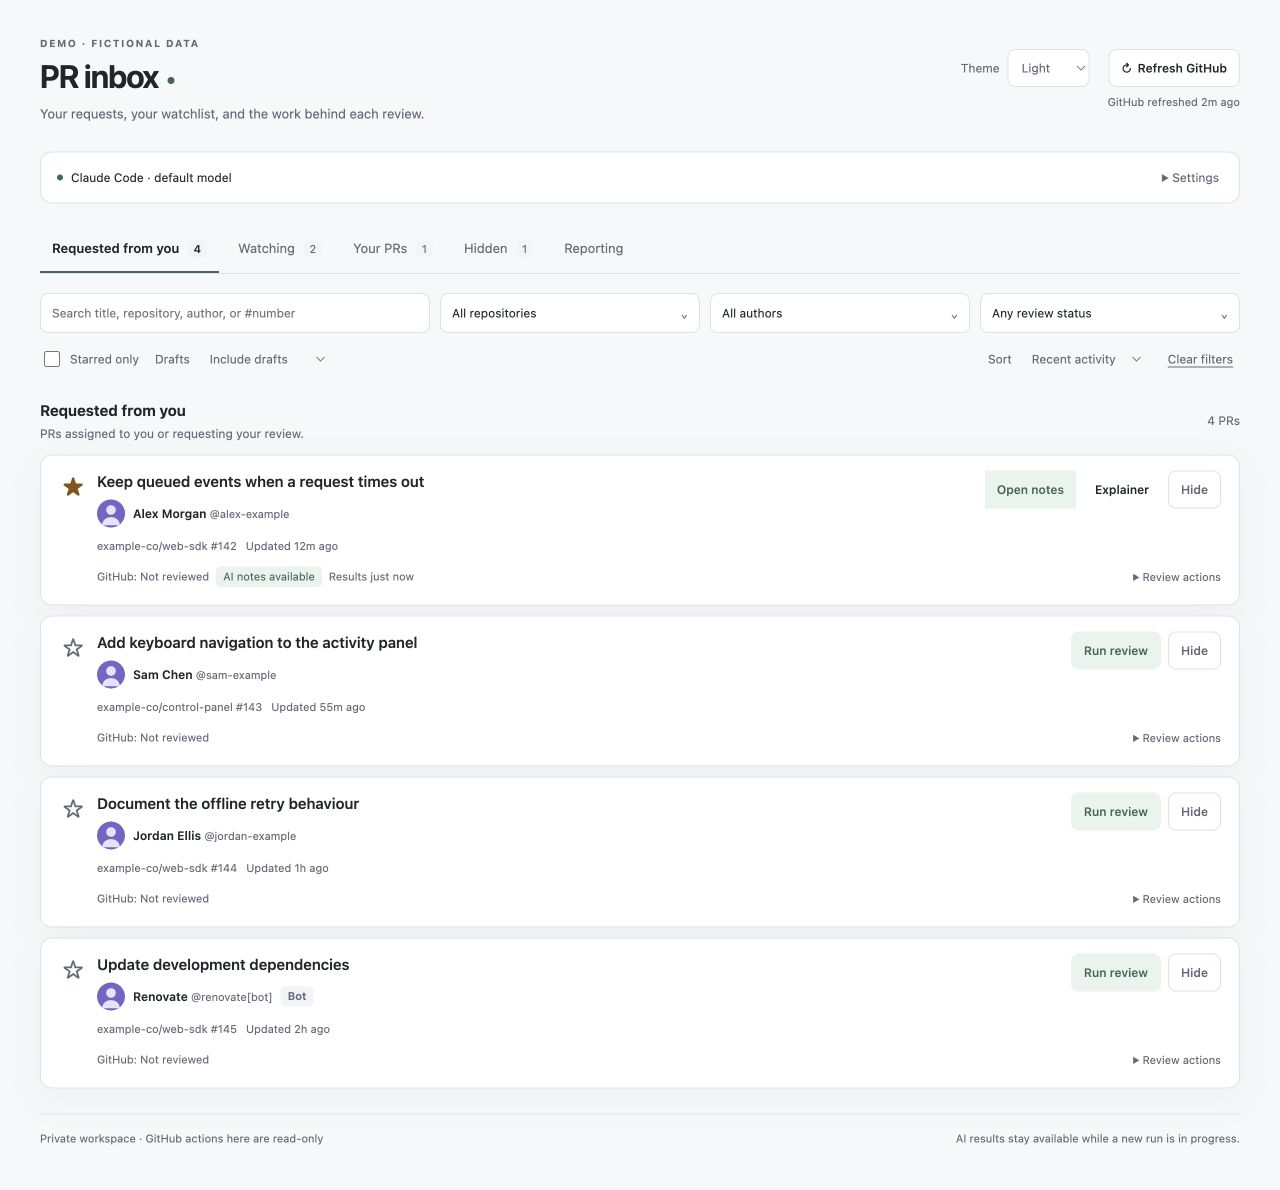
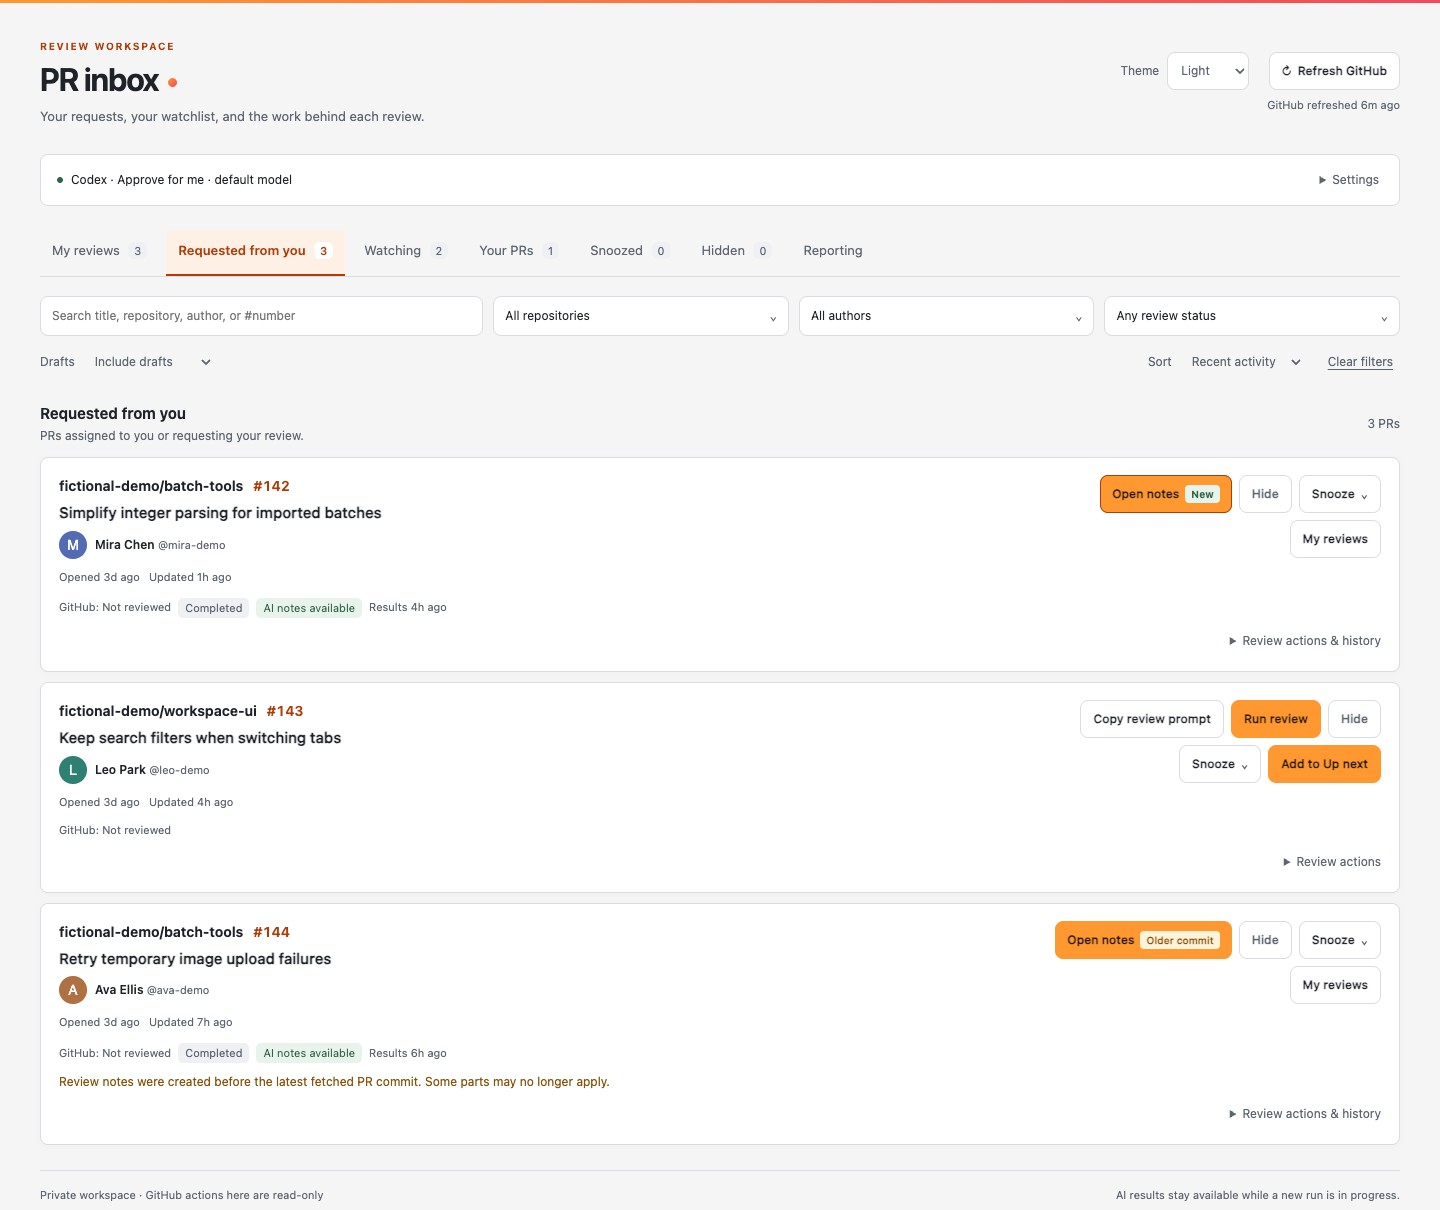
Refresh workflow documentation and synthetic screenshots

diff --git a/assets/dashboard.html b/assets/dashboard.html
@@ -26,7 +26,7 @@
   <details id="settings"><summary>Settings</summary>
     <div class="settings-content">
       <form id="agent-form">
-        <h2>Review agent</h2><p class="muted">Used when you start a review or explanation. Model and effort are remembered for each agent.</p>
+        <h2>Review agent</h2><p class="muted">Used when you start a review. Model and effort are remembered for each agent.</p>
         <div class="fields"><label>Agent<select id="agent" name="agent"><option value="claude">Claude Code</option><option value="codex">Codex CLI</option></select></label>
         <label>Model<input id="model" name="model" list="model-options" placeholder="CLI default" autocomplete="off"><datalist id="model-options"></datalist></label>
         <label>Effort<input id="effort" name="effort" list="effort-options" placeholder="CLI default" autocomplete="off"><datalist id="effort-options"></datalist></label></div>

diff --git a/README.md b/README.md
@@ -11,10 +11,25 @@ service to set up.
 ## A look around
 
 **Your review inbox, in light mode.** See authors, filter your queue, and open
-one combined review report from the PR card. The screenshot below predates
-the combined-report controls.
+one combined review report from the PR card. Snooze a PR or save it to My reviews.
 
 ![PR inbox in light mode with fictional pull requests and authors](docs/screenshots/inbox-light.jpg)
+
+**One report, starting with the explanation.** Follow a concrete before/after
+example and see the exact code behind the behavior.
+
+![Combined review report opening with a fictional parser change and before-and-after example](docs/screenshots/review-overview-light.jpg)
+
+**Findings you can explore one at a time.** Severity and titles stay visible.
+Open a finding for an example, the cause and consequence, a fix direction, a
+copyable comment, and its evidence. Expand all when you want the full review.
+
+![Two fictional findings, with one expanded to show an example, impact, fix direction and copyable comment](docs/screenshots/review-findings-light.jpg)
+
+**My reviews.** Keep a personal queue and pick up where you stopped. New commits
+and replies move saved PRs into Needs another look.
+
+![My reviews with fictional PRs, update indicators and a private reminder](docs/screenshots/my-reviews-light.jpg)
 
 **Reporting, in dark mode.** Compare completed weeks and select a day or week
 to see which PRs you reviewed and which of your own PRs were merged.
@@ -22,18 +37,27 @@ to see which PRs you reviewed and which of your own PRs were merged.
 ![Reporting in dark mode with fictional review and merge activity](docs/screenshots/reporting-dark.jpg)
 
 All screenshots use fictional PRs, people, repositories, and activity, with
-synthetic avatars. They were captured from an isolated demo of the dashboard.
+synthetic avatars. They were captured from the current dashboard and report
+renderer on September 15, 2026, using an isolated demo with mocked data.
+See [screenshot provenance](docs/screenshots/README.md).
 
 ## What it does
 
 - **Triage:** separate views for review requests, watched repositories, your
-  own PRs, and hidden PRs. Star a PR or hide it with an undo option.
+  own PRs, snoozed PRs, and hidden PRs. Snooze for one day, two days, or a
+  week; hide a PR with an undo option.
+- **Follow up:** save PRs in My reviews, keep private notes, and see new commits
+  and replies that need another look.
 - **Filter:** include or exclude multiple authors, repositories, and review
   statuses. There is a shortcut to exclude Renovate. Preferences are remembered
   in your browser.
 - **Review:** launch Claude Code or Codex CLI from the dashboard. Keep the
   combined HTML review notes and run history attached to the PR.
   Existing results remain available during a rerun; outdated results are marked.
+- **Understand and check:** one HTML contains the change explanation and
+  expandable, verified findings with examples and draft comments. The lead
+  assesses size, complexity, risk, and uncertainty before allocating reviewers;
+  the verification appendix records coverage, checks, limitations, and model choices.
 - **Report:** daily and weekly GitHub activity, completed-week comparisons,
   and a short list of yesterday's work. A PR counts once per day or week.
   AI runs, draft reviews, and ordinary PR comments do not count as submitted
@@ -57,18 +81,21 @@ The inbox and reporting can be used without running an AI agent.
 
 ### Full-review dependencies
 
-The explanation renderer is bundled. Draft comments also use this separate skill:
+The combined report renderer is bundled; no separate PR-explainer skill is
+needed. Draft comments use this additional skill:
 
 | Skill | Purpose |
 | --- | --- |
 | `my-feedback-voice` | Shape the draft review comments using your writing examples. |
 
-Install compatible versions in your agent's skill search path before running
-a full review. The default locations referenced here are
-`~/.agents/skills/my-feedback-voice/`.
+Install it in your agent's skill search path before running a full review.
+The default location referenced here is `~/.agents/skills/my-feedback-voice/`.
 The current voice instructions are written for Robert; adapt them for yourself.
 Read [SKILL.md](SKILL.md) for the complete review and sandboxed verification
 workflow. An agent needs a suitable disposable sandbox to execute PR code.
+Full report validation also needs Node.js, Playwright, and an available
+Chromium or Chrome browser. See [renderer and browser-check setup](references/authoring.md)
+for the commands and runtime-path overrides.
 
 ## Get started
 
@@ -82,17 +109,20 @@ gh auth login
 python3 scripts/pr_server.py
 ```
 
-The repository is currently private, so cloning requires repository access
-and GitHub SSH authentication. If you already have this checkout, use it
-instead of cloning over it.
+Cloning requires repository access and GitHub SSH authentication. If you
+already have this checkout, use it instead of cloning over it.
 
-Open **http://127.0.0.1:8765/** and click **Refresh GitHub**. Leave the server
-running in that terminal; Ctrl-C stops it. If the port is occupied, start with
+Open [the local dashboard](http://127.0.0.1:8765/) and click **Refresh GitHub**.
+Leave the server running in that terminal; Ctrl-C stops it. If the port is occupied, start with
 `python3 scripts/pr_server.py --port 8766` and open that port instead.
 
 In **Settings**, add watched repositories as `owner/repository`, then refresh
 GitHub. Choose the agent used for reviews; blank model and effort fields use
 its CLI defaults. Model and effort are saved separately for each agent.
+These settings select the lead session. The lead chooses reviewer subagent
+models and reasoning levels from the host's supported options, within your
+explicit constraints. If overrides are unavailable, reviewers inherit the
+session settings and the report records that limitation.
 
 ### Run a review
 
@@ -109,12 +139,41 @@ From the dashboard, click **Run review**, or expand **Review actions** to
 regenerate the combined review report. This opens an interactive
 CLI session in Terminal and passes it the skill prompt. It is not a headless
 background review service. The CLI's authentication and approval settings
-still apply.
+still apply. Use **Copy review prompt** to paste the same review instructions
+into an agent session of your choice without launching Terminal.
 
 The agent records progress and artifacts in the local tracker. When finished,
-click **Open notes** on the card. The one HTML starts with the change explanation,
-then contains the assessment, findings, copyable drafts and verification. Review comments are drafts;
-read and edit them before posting them yourself.
+click **Open notes** on the card. There is one report and one review skill:
+
+1. **Understand the change:** purpose, essential context, a concrete before/after
+   example, and exact source excerpts.
+2. **Read the assessment and findings:** each finding starts collapsed with its
+   severity and title visible. Open it for expected versus actual behavior, why
+   it happens, why it matters, the proposed fix, evidence, and a copyable comment.
+   Multiple findings have **Expand all / Collapse all** controls.
+3. **Check the verification appendix:** inspected scope, checks and outcomes,
+   unresolved gaps, and reviewer allocation with requested versus known effective
+   model and effort settings.
+
+The workflow covers the full diff with correctness, security, and contract
+review lenses, then verifies candidates before reporting them. Model selection
+is an adaptive policy, not a guarantee of review quality. See the
+[review approach](references/review-practices.md) and
+[allocation policy](references/reviewer-allocation.md).
+Review comments are drafts; read and edit them before posting them yourself.
+
+### Keep track of your reviews
+
+Click **Add to Up next** on a PR or paste its link into **My reviews**. Move it
+through **Up next**, **Reviewing**, and **Waiting**, and leave a private note
+about what to check next. New commits or relevant replies appear in
+**Needs another look**. **Mark updates checked** acknowledges the displayed
+updates; opening a PR alone does not clear them.
+
+**Done for now** moves a review to History. These stages track your own work;
+completing an AI run does not submit a GitHub review or mark your work done.
+Saved PRs are checked every five minutes while the dashboard is visible.
+There are no checks or notifications while the page is closed.
 
 ### See your activity
 
@@ -157,8 +216,8 @@ in this repository's Git backup. Keep those out of commits and screenshots.
 
 ## Development and recovery
 
-Run the existing checks from the repository root (Node.js is needed only for
-the JavaScript check):
+Run the existing checks from the repository root (the JavaScript check needs
+Node.js):
 
 ```sh
 python3 -m unittest discover -s scripts -p 'test_*.py'

diff --git a/docs/screenshots/README.md b/docs/screenshots/README.md
@@ -1,0 +1,29 @@
+# Screenshot provenance
+
+Captured September 15, 2026 from this repository's dashboard assets and bundled
+review renderer, using headless Chrome at 1440 CSS pixels wide, with viewport heights chosen to show each section.
+
+- `inbox-light.jpg`: current combined Open notes action, snooze controls, and
+  Add to Up next / My reviews actions.
+- `review-overview-light.jpg`: the opening of the combined report, with a
+  before/after explanation for a deliberately flawed toy integer parser.
+- `review-findings-light.jpg`: the same report with one finding collapsed and
+  another expanded, showing its example, impact, fix direction, and draft comment.
+- `my-reviews-light.jpg`: saved reviews with fictional update reasons and notes.
+- `reporting-dark.jpg`: synthetic weekly review and merge activity.
+
+The dashboard API responses were intercepted in an isolated browser context.
+Every displayed PR, repository, author, activity event, and private note was
+invented for this demo. Avatar requests were fulfilled with generated initials;
+no GitHub profile images or live tracker data were used. No dashboard request
+was forwarded to GitHub or the local running server.
+
+The report uses a temporary, synthetic Git repository containing only a toy
+`parser.py`. Its examples were source-traced and are labeled as such; the report
+does not claim runtime testing. The images are browser captures of the actual
+UI, with no replacement controls or composited text.
+
+When refreshing these images, use current assets and renderer output in an
+isolated demo, populate all data synthetically, and inspect each capture before
+committing. Do not capture the live inbox and redact it afterward. Keep demo
+tracker state and generated review artifacts outside the Git repository.
